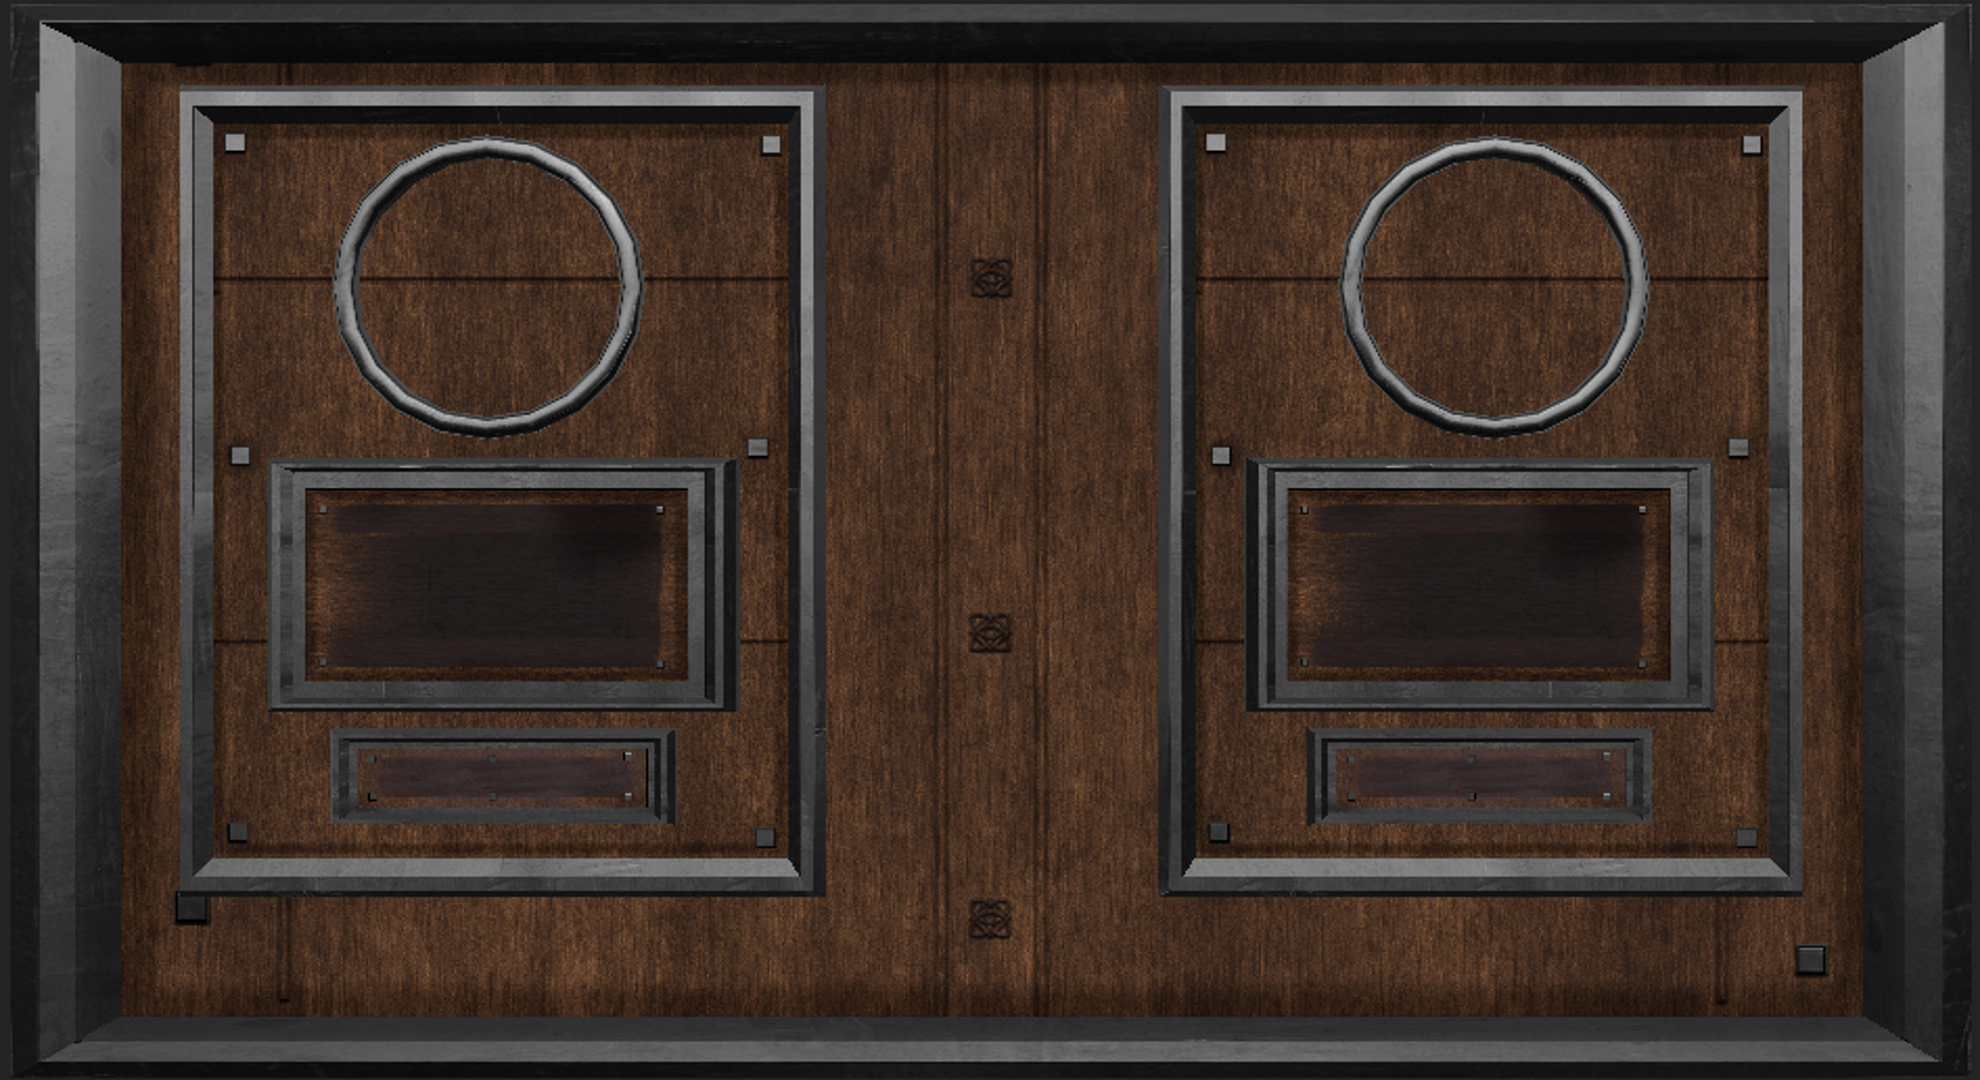
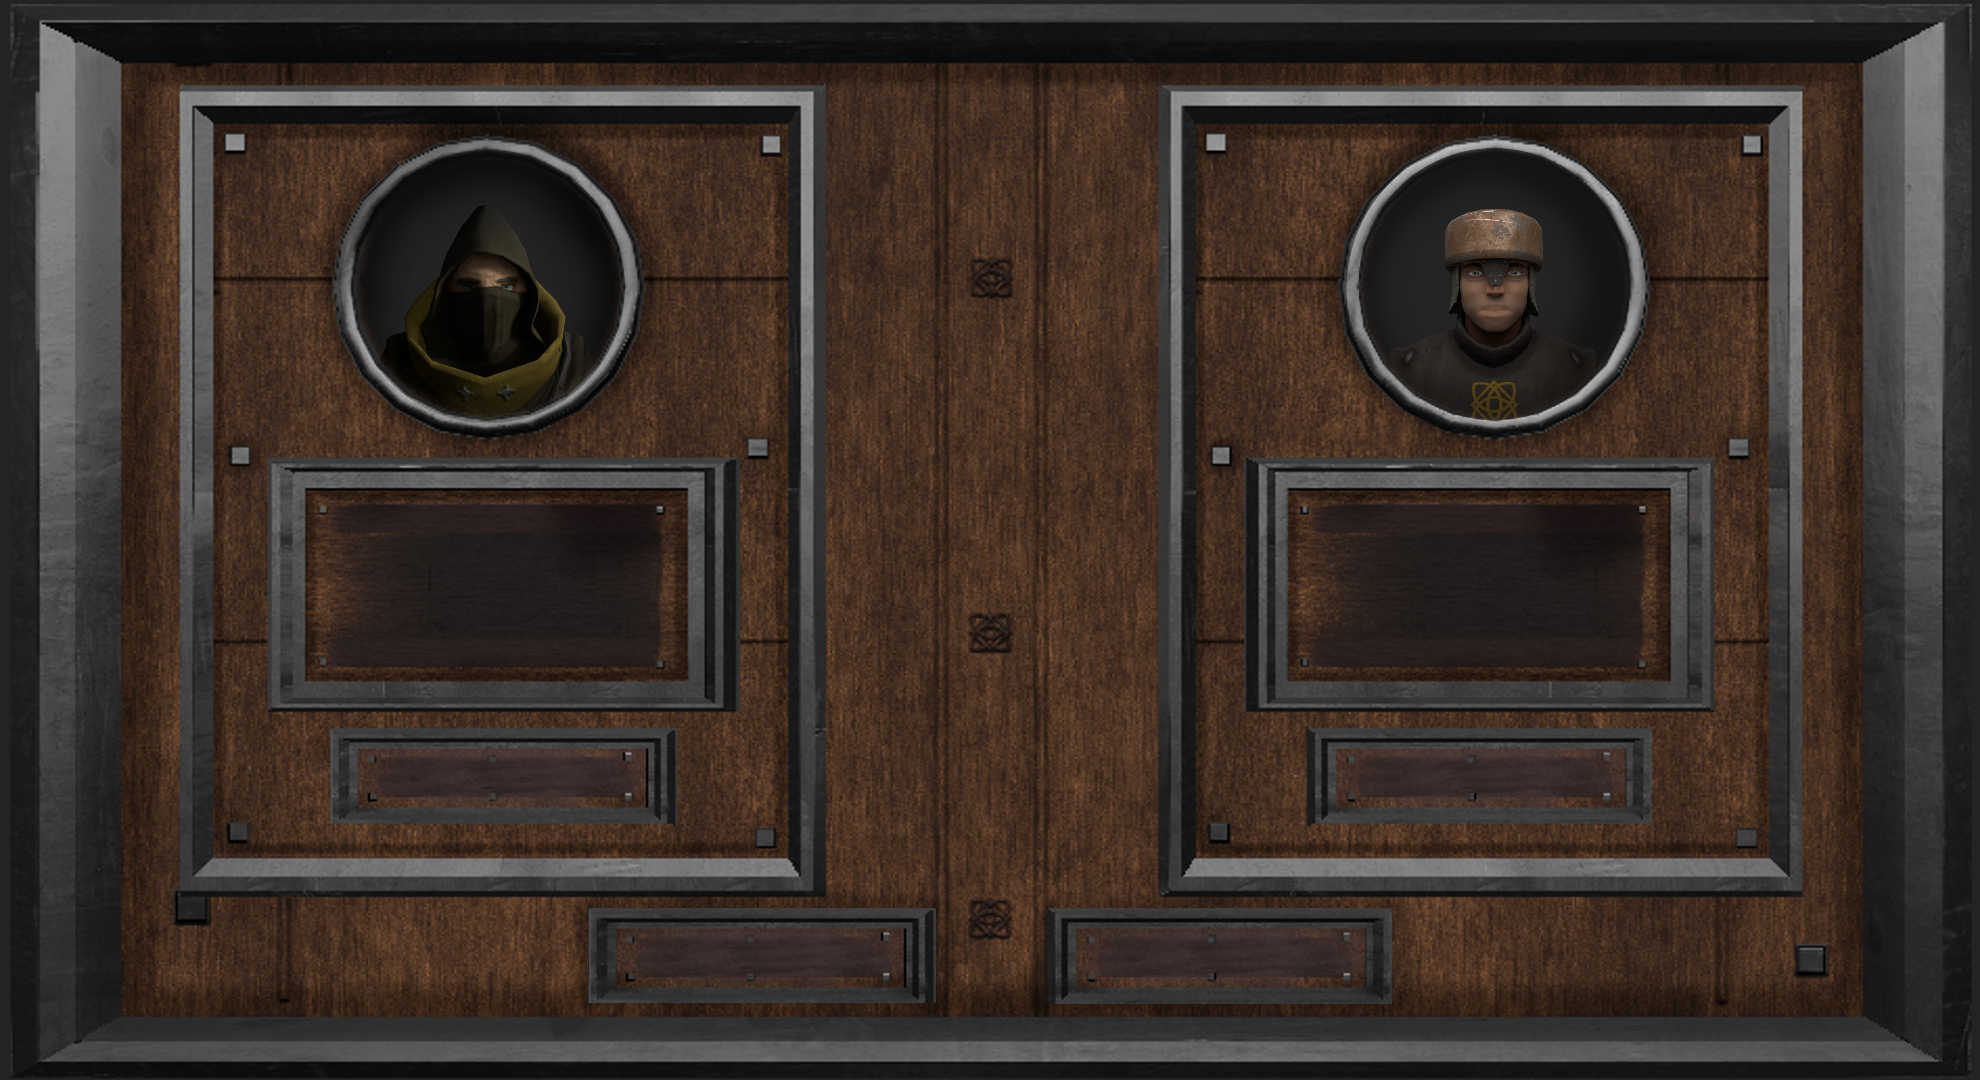
Updated Char selection background

diff --git a/RipTag/Source/Game/States/LobbyState.cpp b/RipTag/Source/Game/States/LobbyState.cpp
@@ -461,14 +461,14 @@ void LobbyState::_initButtons()
 		this->m_charSelectButtons[CharacterSelection::CharTwo]->setTextColor(DefaultColor);
 		this->m_charSelectButtons[CharacterSelection::CharTwo]->setFont(FontHandler::getFont("consolas16"));
 		//Ready
-		this->m_charSelectButtons.push_back(Quad::CreateButton("Ready", 0.4f, 0.12f, 0.3f, 0.11f));
+		this->m_charSelectButtons.push_back(Quad::CreateButton("Ready", 0.384f, 0.113f, 0.29f, 0.11f));
 		this->m_charSelectButtons[CharacterSelection::Ready]->setUnpressedTexture("gui_transparent_pixel");
 		this->m_charSelectButtons[CharacterSelection::Ready]->setPressedTexture("gui_pressed_pixel");
 		this->m_charSelectButtons[CharacterSelection::Ready]->setHoverTexture("gui_hover_pixel");
 		this->m_charSelectButtons[CharacterSelection::Ready]->setTextColor(DefaultColor);
 		this->m_charSelectButtons[CharacterSelection::Ready]->setFont(FontHandler::getFont("consolas32"));
 		//Return
-		this->m_charSelectButtons.push_back(Quad::CreateButton("Return", 0.6f, 0.12f, 0.3f, 0.11f));
+		this->m_charSelectButtons.push_back(Quad::CreateButton("Return", 0.617f, 0.113f, 0.29f, 0.11f));
 		this->m_charSelectButtons[CharacterSelection::Back]->setUnpressedTexture("gui_transparent_pixel");
 		this->m_charSelectButtons[CharacterSelection::Back]->setPressedTexture("gui_pressed_pixelini");
 		this->m_charSelectButtons[CharacterSelection::Back]->setHoverTexture("gui_hover_pixel");
